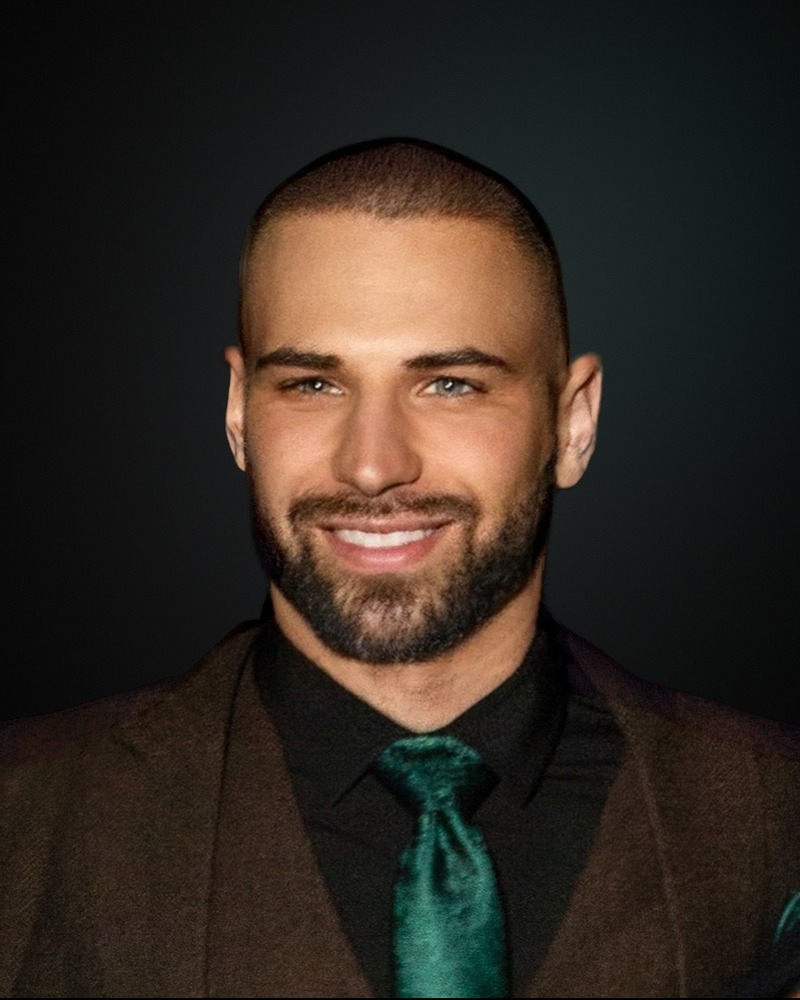
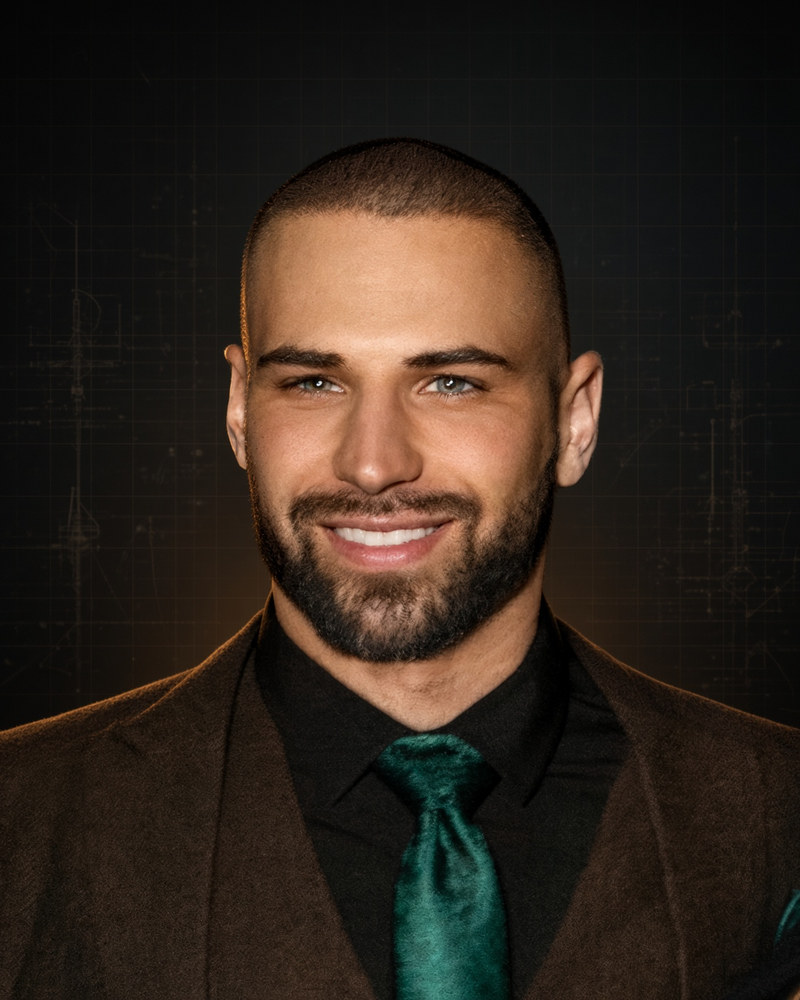
Add the horn comparison, branded patch, Dragon photo, and new headshot.
Put the NPL comparison under capabilities, use the branded patent tile and Dragon capsule in Selected work, and replace the About portrait in the existing 4:5 frame.

diff --git a/public/index.html b/public/index.html
@@ -12,7 +12,7 @@
   <link rel="icon" type="image/svg+xml" href="/favicon.svg">
   <link rel="preload" href="/assets/fonts/space-grotesk-latin-wght-normal.BhU9QXUp.woff2" as="font" type="font/woff2" crossorigin>
   <link rel="preload" href="/assets/fonts/inter-latin-wght-normal.Dx4kXJAl.woff2" as="font" type="font/woff2" crossorigin>
-  <link rel="stylesheet" href="/styles.css?v=10">
+  <link rel="stylesheet" href="/styles.css?v=11">
 </head>
 <body>
   <a class="skip-link" href="#main">Skip to content</a>
@@ -245,6 +245,14 @@
           <p>Drone building and piloting, RF links and communications for UAS, and counter-UAS sensing and RF.</p>
         </article>
         </div>
+        <figure class="cap-evidence">
+          <p class="eyebrow">EM simulation and analysis</p>
+          <picture>
+            <source srcset="/images/capabilities/horn-gain.webp" type="image/webp">
+            <img src="/images/capabilities/horn-gain.jpg" alt="Standard gain horn gain: NPL measurement and high-fidelity simulation from 8.2 to 12.4 GHz" width="1824" height="1007" loading="lazy" decoding="async">
+          </picture>
+          <figcaption>Standard gain horn: NPL measurement vs. high-fidelity simulation, 8.2–12.4 GHz.</figcaption>
+        </figure>
       </div>
     </section>
 
@@ -340,7 +348,7 @@
           <p>Antennas for GPS navigation, telemetry, and flight termination systems on flight vehicles.</p>
         </article>
         <article class="card">
-          <picture class="work-thumb"><source srcset="/images/work/stacked-patch.webp" type="image/webp"><img src="/images/work/stacked-patch.jpg" alt="Five stacked center-slotted copper patch antennas on a round metal plate" width="1116" height="738" loading="lazy" decoding="async"></picture>
+          <picture class="work-thumb"><source srcset="/images/work/stacked-patch.webp" type="image/webp"><img src="/images/work/stacked-patch.jpg" alt="Five stacked center-slotted copper patch antennas on a round metal plate, with the Vectron logo and Patented Design text" width="1080" height="709" loading="lazy" decoding="async"></picture>
           <p class="eyebrow">Patented design</p>
           <h3>Compact dual-band circularly polarized patch</h3>
           <p>Probe-fed, stacked, center-slotted patch antenna covering two bands in a compact footprint. <a class="inline-link" href="https://patents.google.com/patent/US12562485B2/en" target="_blank" rel="noopener">U.S. Patent 12,562,485</a>, granted 2026.</p>
@@ -396,6 +404,7 @@
           <p class="tile-paper-links"><a class="tile-link" href="https://doi.org/10.23919/AMTA66658.2025.11317803" target="_blank" rel="noopener">Near-field facility paper <svg viewBox="0 0 24 24" fill="none" stroke="currentColor" stroke-width="2" stroke-linecap="round" stroke-linejoin="round" aria-hidden="true"><path d="M7 17 17 7M8 7h9v9"/></svg></a><a class="tile-link" href="https://ieeexplore.ieee.org/document/10789678" target="_blank" rel="noopener">Gain calibration paper <svg viewBox="0 0 24 24" fill="none" stroke="currentColor" stroke-width="2" stroke-linecap="round" stroke-linejoin="round" aria-hidden="true"><path d="M7 17 17 7M8 7h9v9"/></svg></a></p>
         </article>
         <article class="card">
+          <picture class="work-thumb"><source srcset="/images/work/dragon-capsule.webp" type="image/webp"><img src="/images/work/dragon-capsule.jpg" alt="Dragon capsule with solar arrays in a test chamber" width="1118" height="801" loading="lazy" decoding="async"></picture>
           <p class="eyebrow">Launch vehicle avionics</p>
           <h3>Falcon 9 and Dragon EMI/EMC testing</h3>
           <p>Tested avionics components for conducted and radiated emissions and susceptibility to MIL-STD-461E.</p>

diff --git a/public/styles.css b/public/styles.css
@@ -464,6 +464,23 @@ strong { font-weight: 600; }
 }
 .product-shot { aspect-ratio: 5 / 3; }
 .work-thumb { aspect-ratio: 16 / 10; margin-bottom: 1.25rem; }
+.cap-evidence { margin-top: 2.5rem; }
+.cap-evidence .eyebrow { margin-bottom: .85rem; }
+.cap-evidence picture { display: block; }
+.cap-evidence img {
+  display: block;
+  width: 100%;
+  height: auto;
+  border: 1px solid var(--color-chrome-rule);
+  border-radius: 10px;
+  background: #05070c;
+}
+.cap-evidence figcaption {
+  margin-top: .7rem;
+  font-size: .8rem;
+  line-height: 1.45;
+  color: var(--color-chrome-dim);
+}
 .product-shot img,
 .work-thumb img {
   position: absolute;
